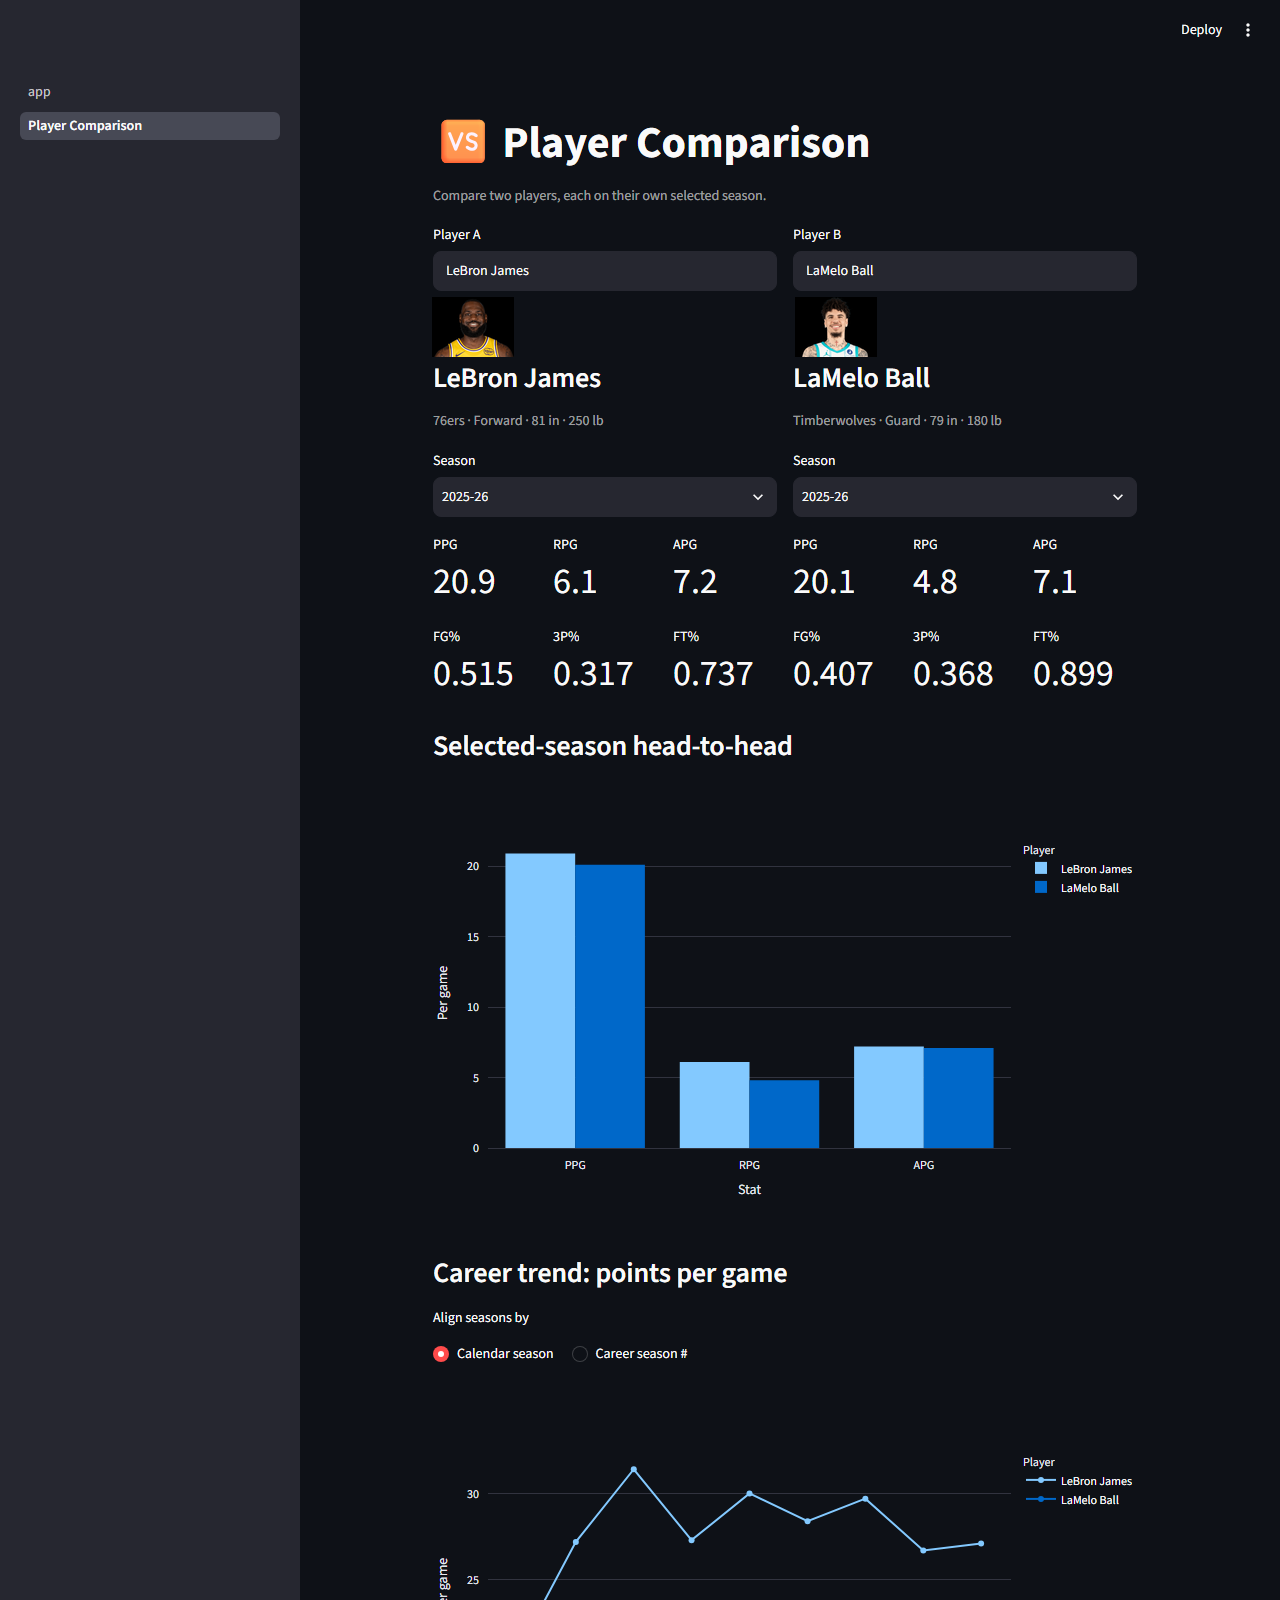
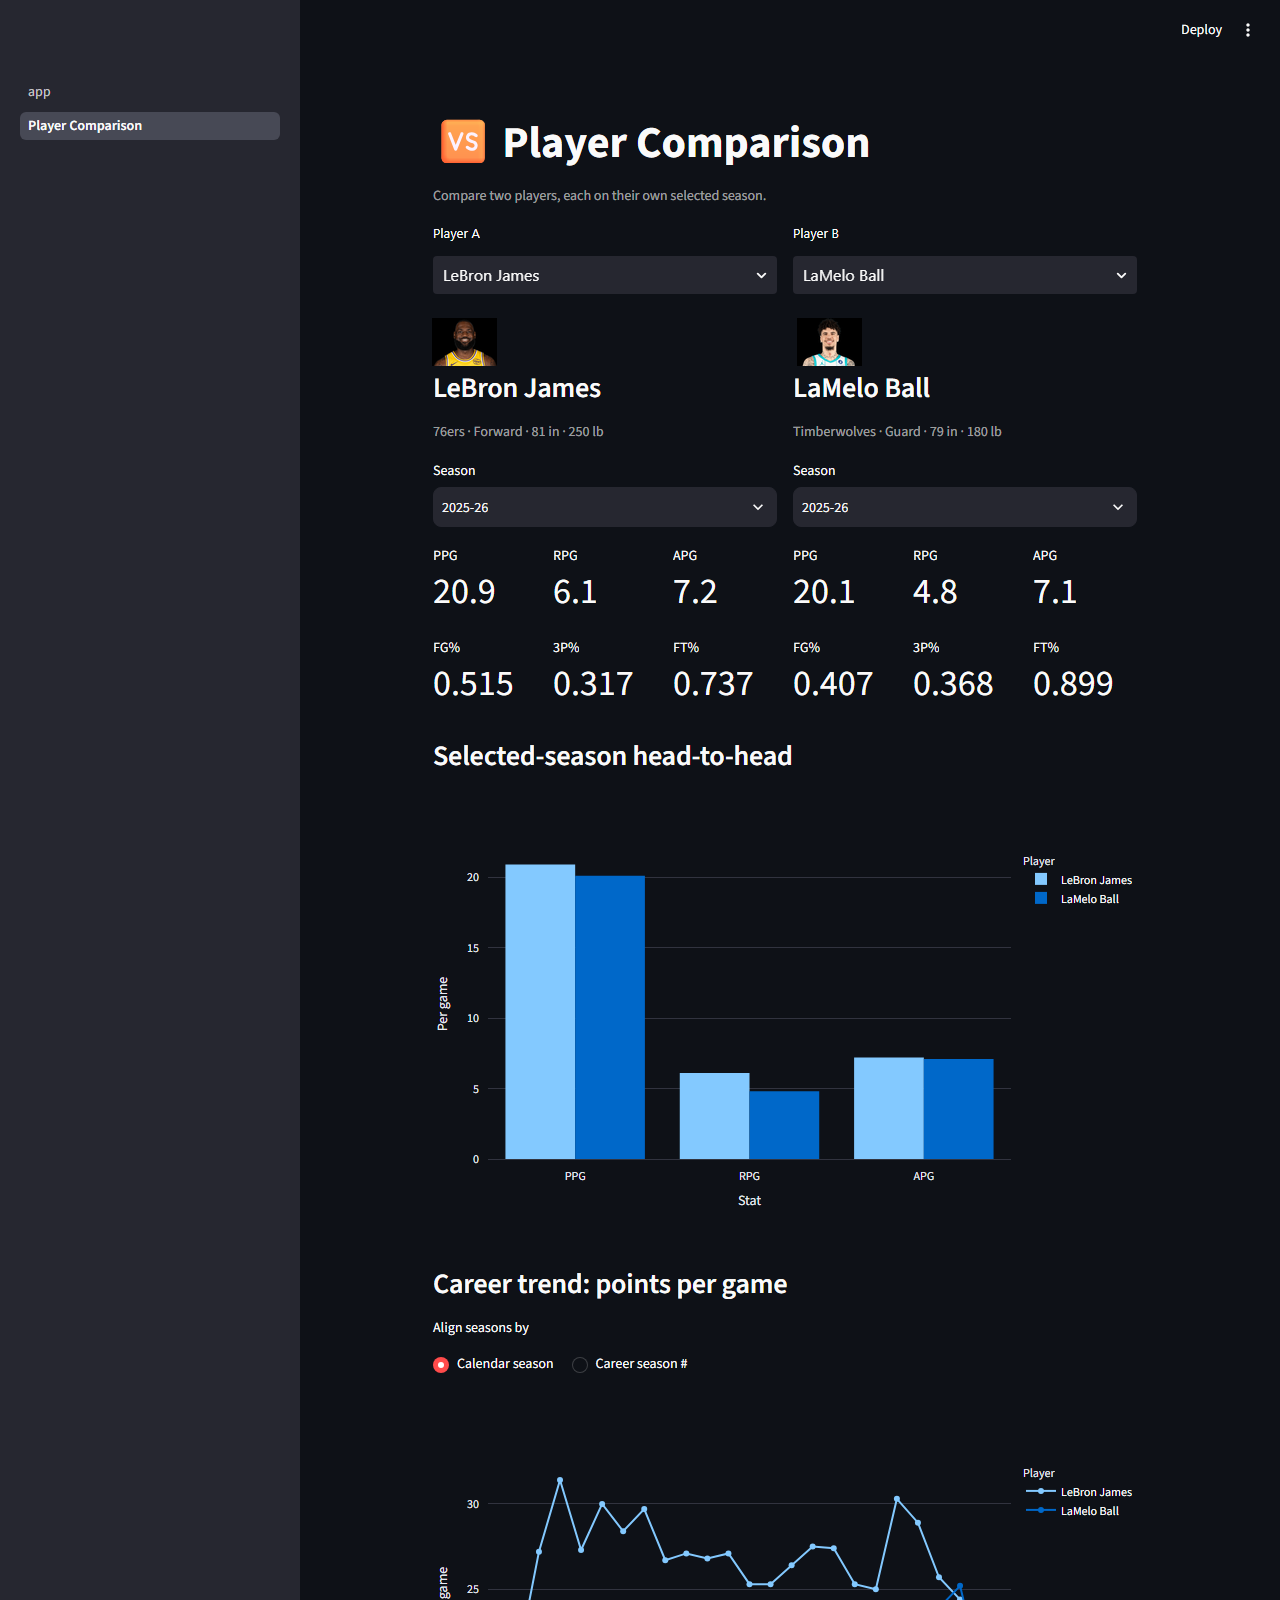
docs: log search feature and percentage fix, refresh screenshots

diff --git a/PROGRESS.md b/PROGRESS.md
@@ -577,5 +577,60 @@ a dedicated future effort, not a footnote squeezed into a feature task.
 Not scheduled yet; revisit once V2 (or whichever version) is far enough
 along that it's worth the investment.
 
+## Feature — 2026-09-24: typo-tolerant player search with live suggestions
+
+User-requested while exploring the app: the plain text input had no
+suggestions and no typo tolerance (a search for "michael" with any
+misspelling just failed outright, or silently returned whichever player
+`find_players_by_full_name` fuzzy-matched, invisibly).
+
+Replaced `st.text_input` with `st_searchbox` (new dependency,
+`streamlit-searchbox`) on both pages -- a real dropdown-as-you-type
+component, not Streamlit's native `st.selectbox` (whose filtering
+happens client-side and can't run custom Python typo-tolerance logic).
+
+**Search design -- two-tier, not pure fuzzy matching:**
+1. Substring match first (fast, case-insensitive, ranks `startswith`
+   results first). Handles the overwhelmingly common case: typing a
+   correct partial name.
+2. Fuzzy match (`difflib.SequenceMatcher`, against both the full name
+   and each name token) only when no substring match exists at all.
+   Catches actual typos.
+
+This order matters and was arrived at empirically, not assumed: pure
+fuzzy matching (`difflib.get_close_matches`) was tried first and
+**failed on the most common case** -- short correct prefixes like "leb"
+or "jok" scored too low against full names ("LeBron James", "Nikola
+Jokić") to surface at all, since `SequenceMatcher`'s ratio penalizes
+large length differences between a 3-character query and a full name.
+Substring-first fixes this while still catching genuine typos like
+"micheal jordn" -> Michael Jordan or "giannis antetokunmpo" -> Giannis
+Antetokounmpo (correctly ranked above his brothers) via the fallback
+tier. Benchmarked against all ~5,100 players (active + historical, not
+just the 530 seeded ones, since the app can already look up anyone):
+substring hits are sub-millisecond; the fuzzy fallback (only reached on
+a real typo) takes ~100-230ms, still well within a usable search-as-
+you-type feel.
+
+`search_players()` returns `(display_name, person_id)` pairs, so a
+selection resolves directly to an ID -- `get_or_build_player()` was
+changed to take `person_id` instead of `name`, removing the
+name -> ID lookup (and the `ValueError`/`st.error` path for "no player
+found") entirely, since a selection can now only ever be a valid player.
+
+Also refreshed `docs/images/profile.png` and `comparison.png` (the new
+search UI looks different) -- same headless-Chrome + Pillow-composite
+process as task 1.8, and a nice side confirmation that the season-axis
+chart fix above actually shows the full career range in a real capture,
+not just a live-tested one.
+
+## Bug fix — 2026-09-24: shooting percentages shown as raw decimals
+
+User-reported while testing the new search feature: FG%/3P%/FT% showed
+as "0.515" instead of "51.5%" (the underlying `FG_PCT` etc. columns are
+genuinely 0-1 floats, just never formatted for display). Fixed with
+`st.column_config.NumberColumn(format="percent")` on the season table
+and manual `*100` formatting on the comparison page's metric tiles.
+
 ## Next task
 2.1 Feature engineering for the similarity model (V2 start)

diff --git a/README.md b/README.md
@@ -16,6 +16,9 @@ a notebook analysis.
   a head-to-head bar chart plus a full-career trend chart overlaying both
   players — switchable between real calendar seasons and "season # in
   career," so trajectories stay comparable even across different eras.
+- Typo-tolerant search with live suggestions as you type (e.g. "micheal
+  jordn" still finds Michael Jordan), across every NBA player ever, not
+  just the pre-seeded ones.
 - Player headshots on both pages.
 - First search for a player fetches live and caches the result; every
   later search for that player is a fast local read.
